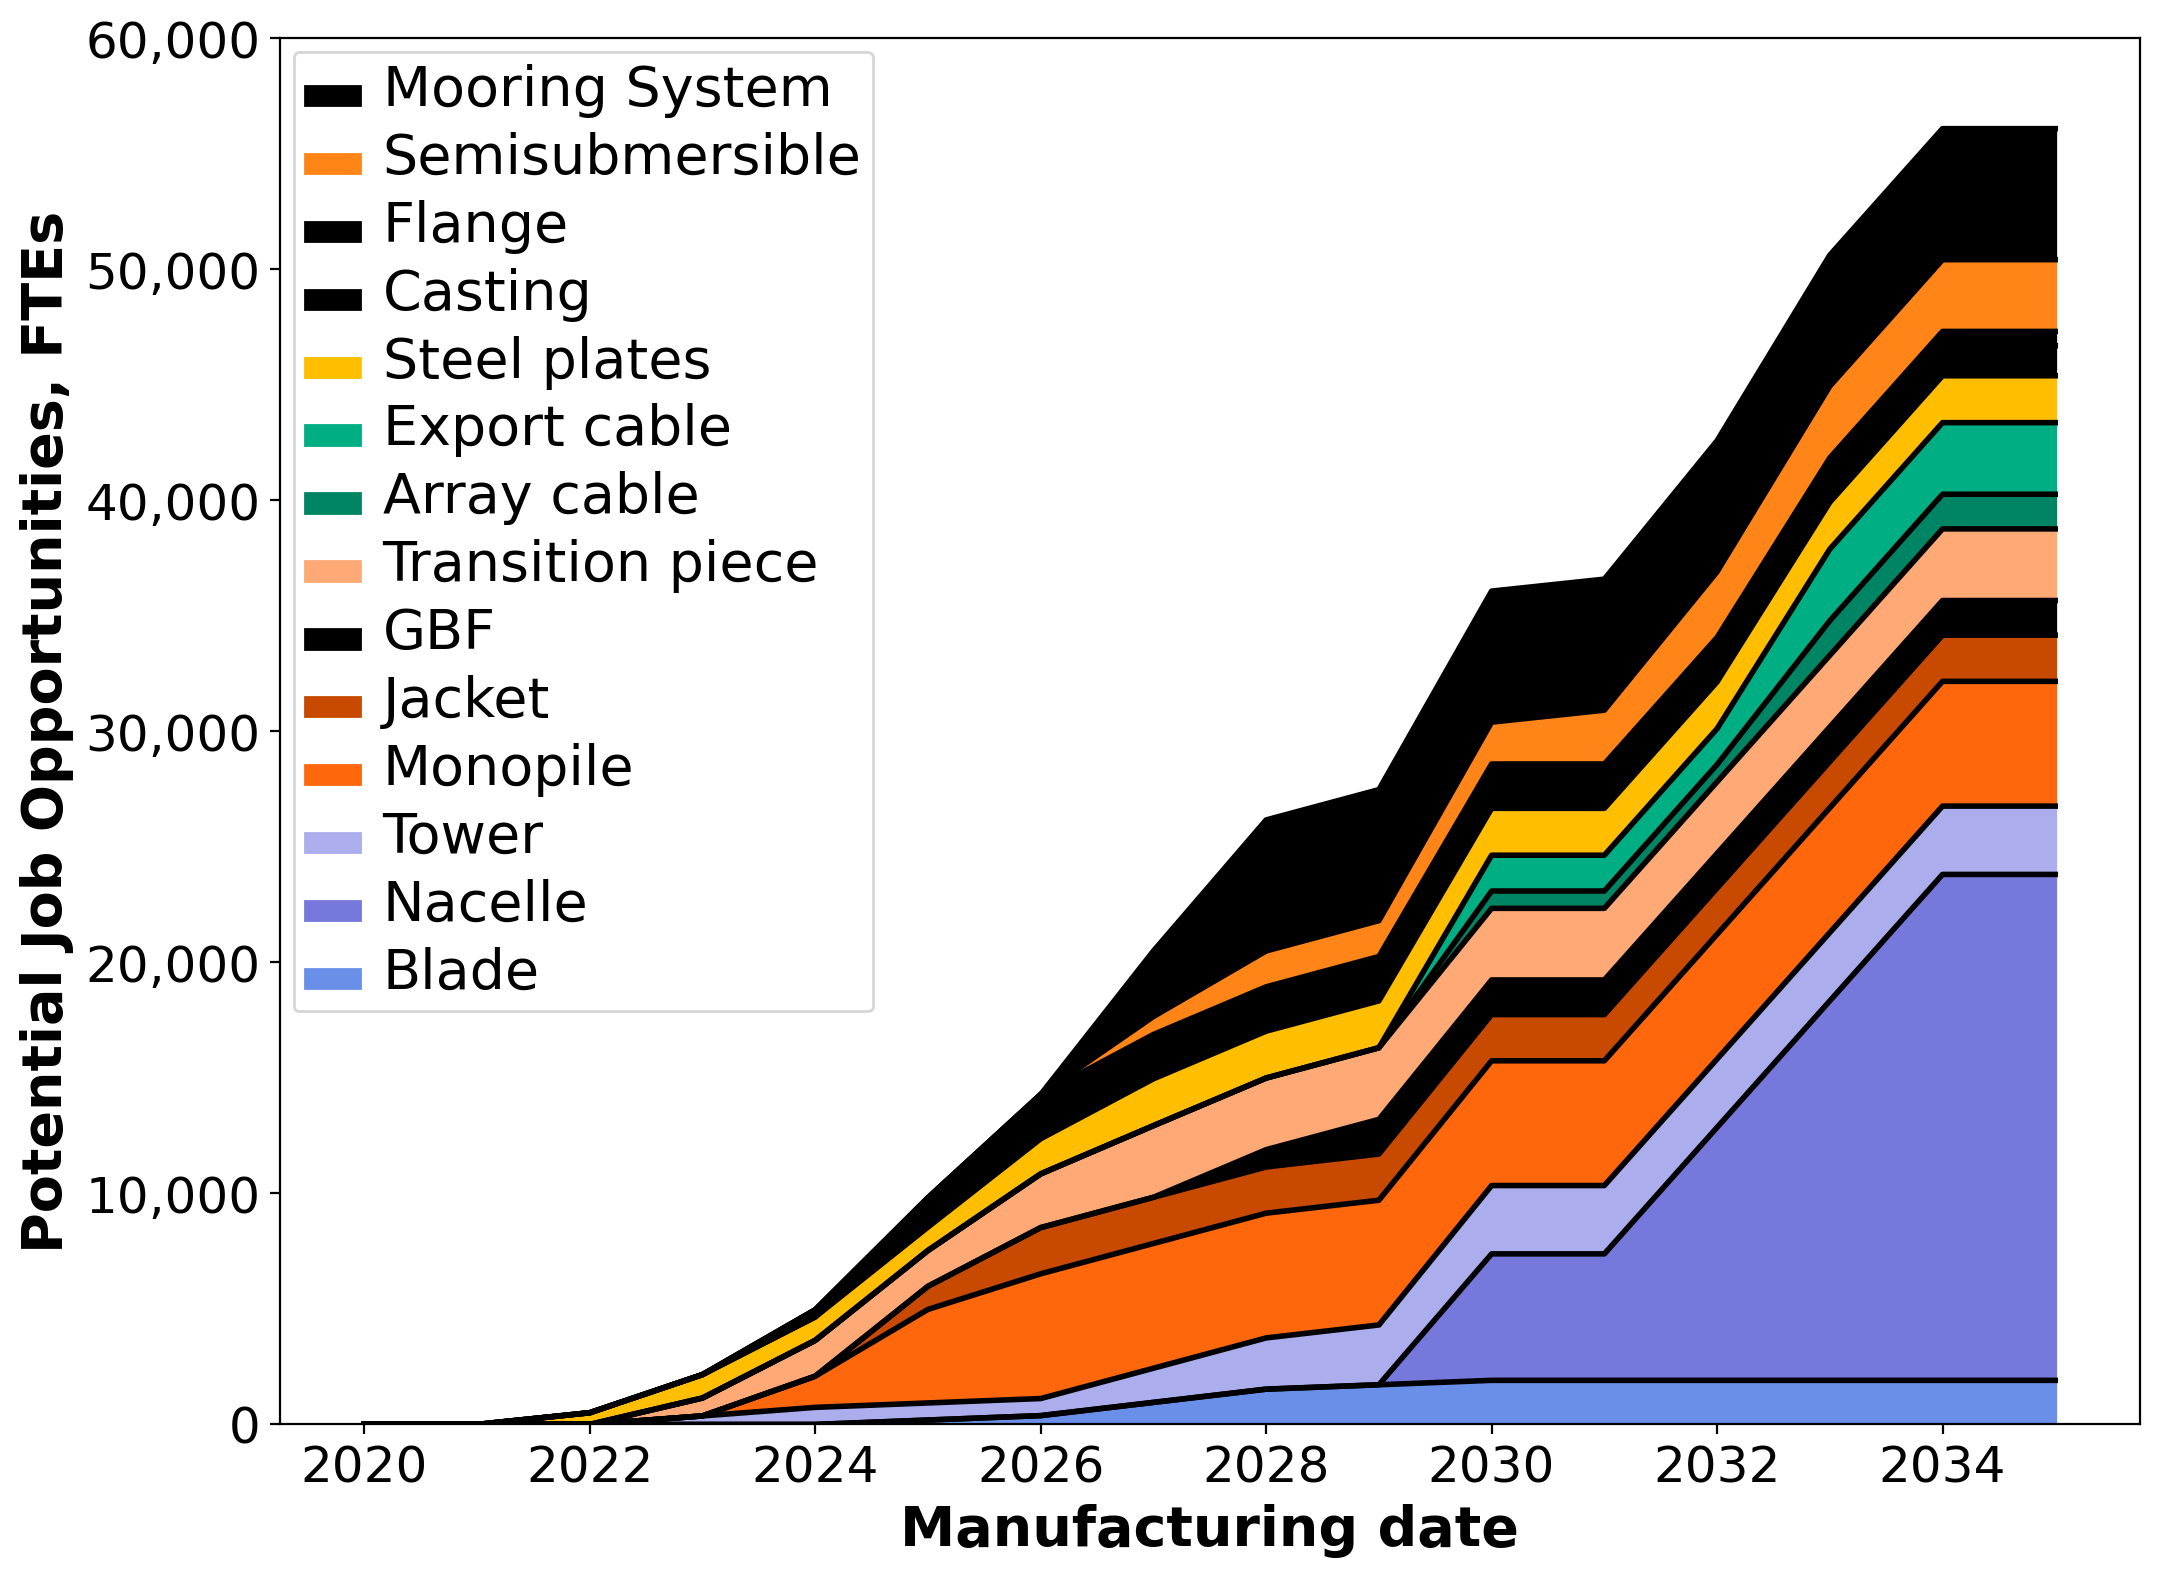
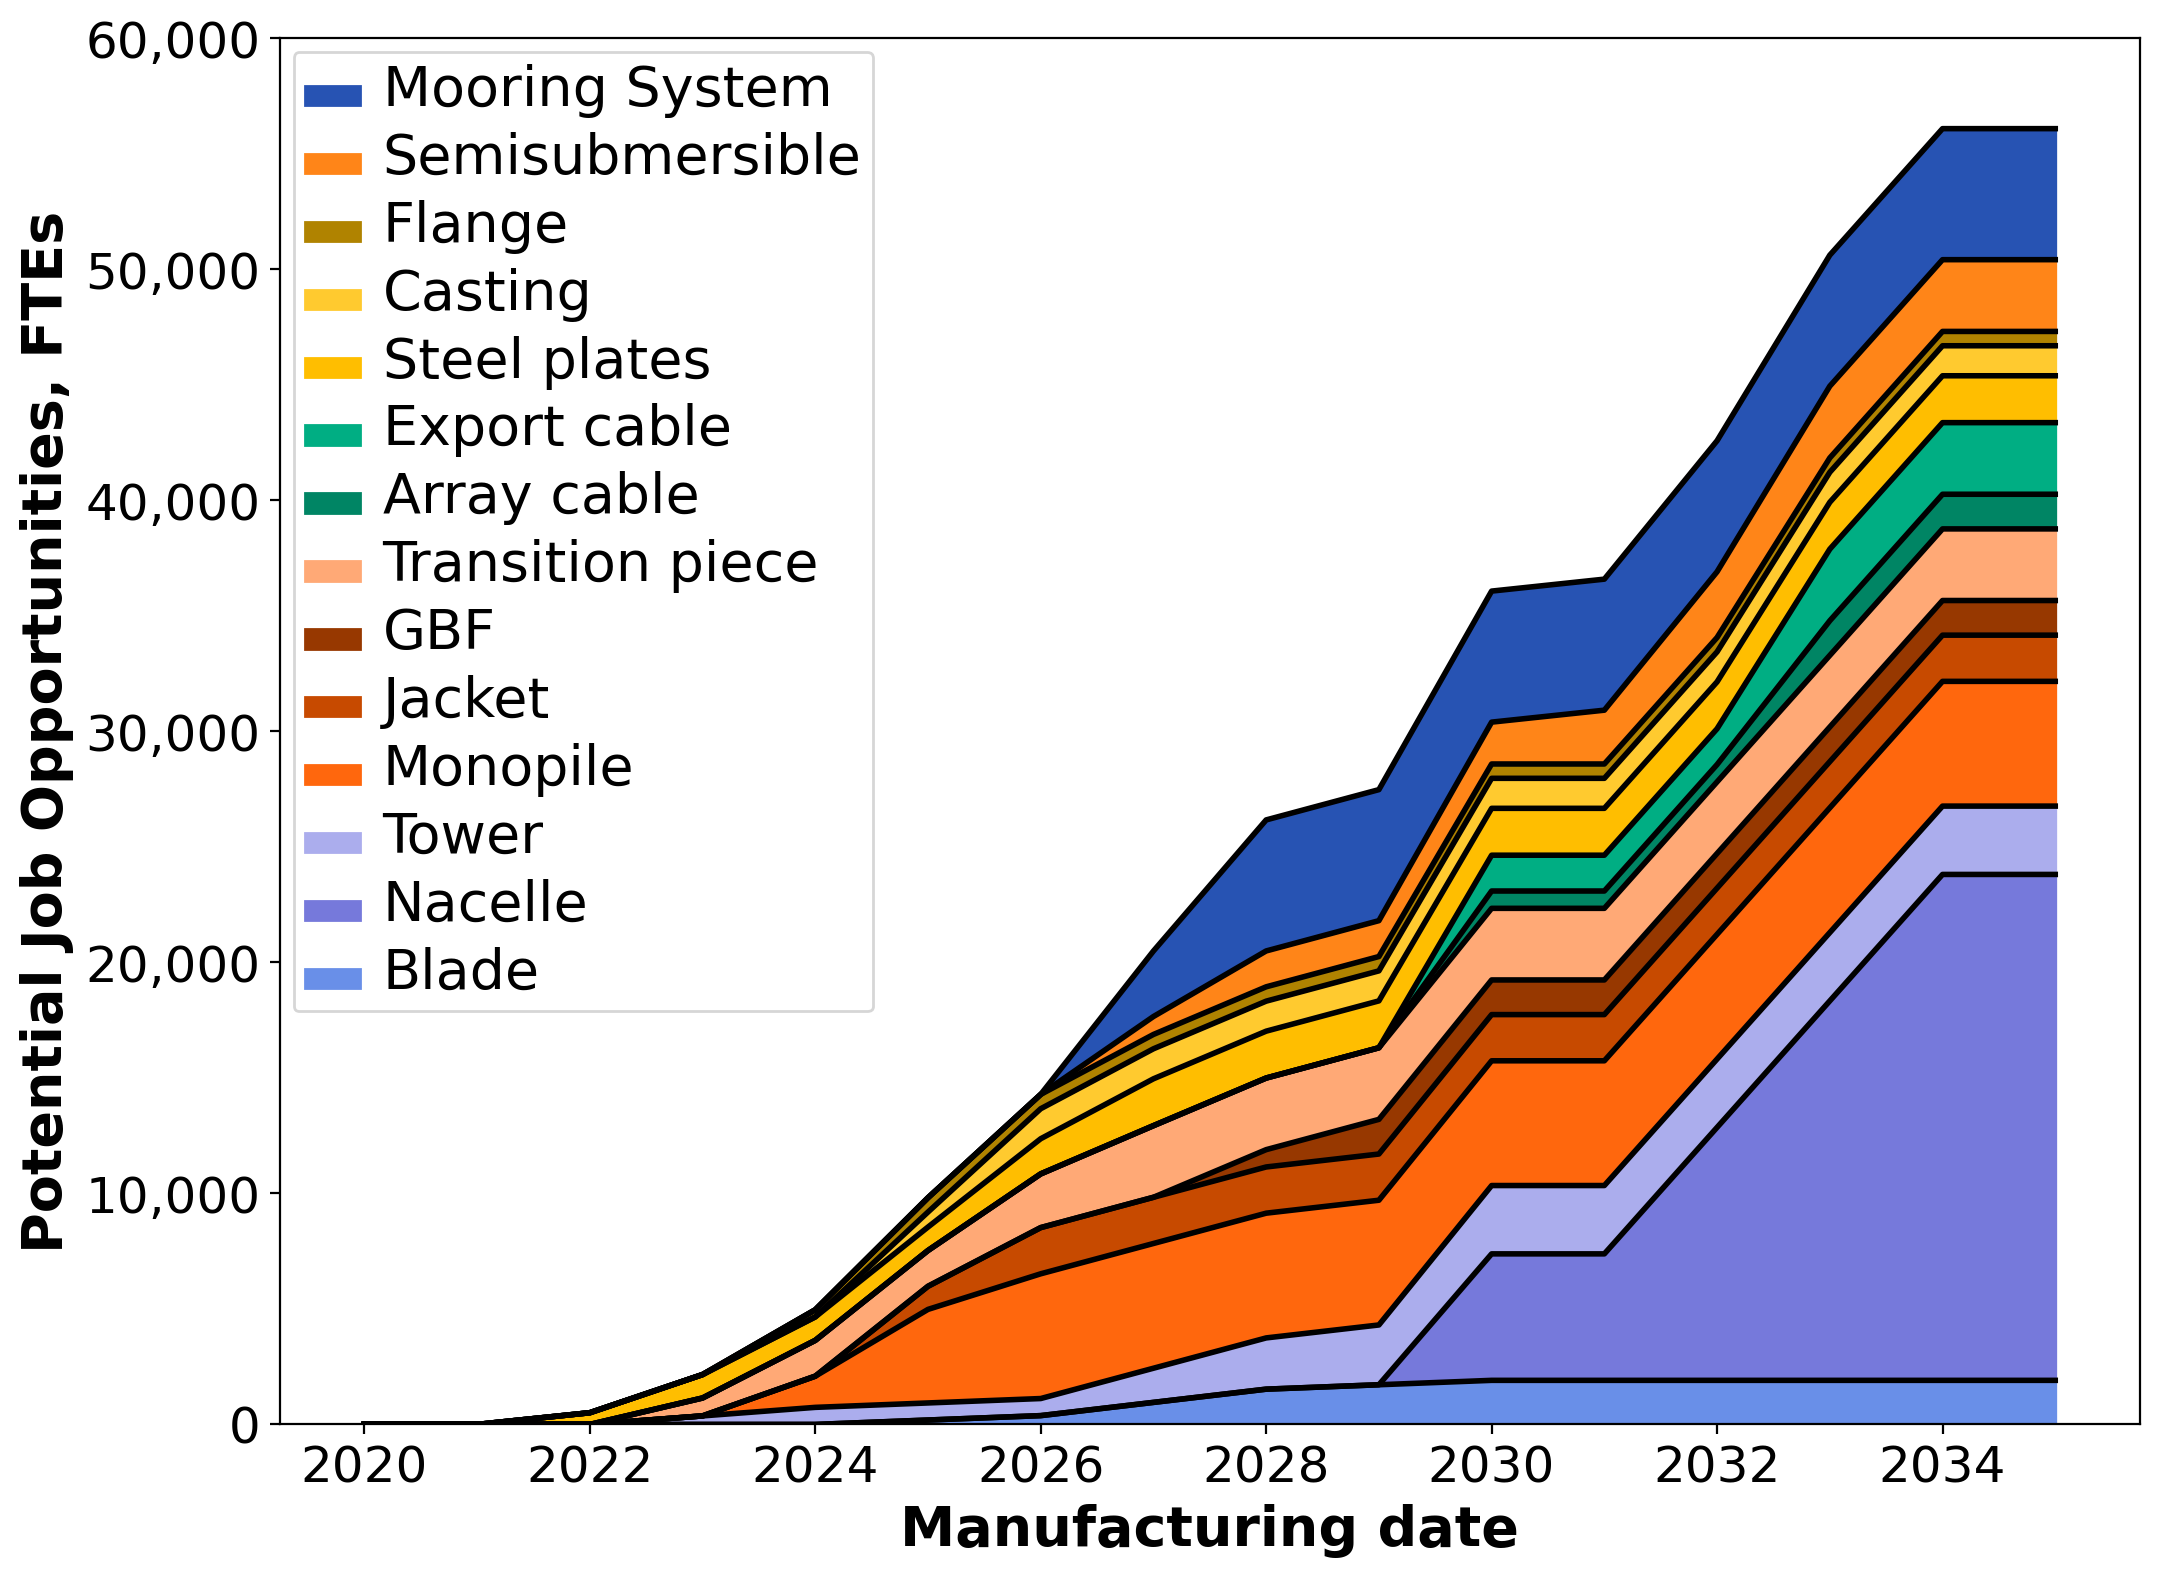
Updated state overlap bar plot

diff --git a/plot_routines.py b/plot_routines.py
@@ -239,7 +239,7 @@ def plot_cumulative(x, y1, y2, y3, y4, components, color_list, ylabel, fname=Non
     # Add vessels
     yVessels = yPorts + y4
     ax.fill_between(x, list(yPorts), list(yVessels), color=color_list['WTIV'], label='WTIVs and HLVs')
-    ax.plot(x, yVessels, 'k')
+    ax.plot(x, yVessels, 'w')
 
     total_inv = pd.DataFrame({'Year': x, 'Investment': yVessels})
     print('Cumulative supply chain investment is: ', total_inv)
@@ -525,11 +525,28 @@ def plot_overlap_bar(x, y1, y2, y3, color_list, kwargs, fname=None):
 
     fig, ax = initFigAxis(figx=30)
 
-    ax.bar(x, y1, width=kwargs['back_bar_width'], align='edge', zorder=kwargs['back_bar_zorder'], label=kwargs['legend'][0], edgecolor='k', color=color_list[kwargs['legend'][0]])
-    ax.bar(x, y2, width=kwargs['back_bar_width'], align='edge', zorder=kwargs['back_bar_zorder'], label=kwargs['legend'][1], edgecolor='k', color=color_list[kwargs['legend'][1]])
-    ax.bar(x, y3, width=kwargs['front_bar_width'], alpha=0.75, zorder=kwargs['front_bar_zorder'], label=kwargs['legend'][2], edgecolor='k', color=color_list[kwargs['legend'][2]])
+    # x =  np.arange(len(x_name))
 
-    ax.set_xticklabels(x, rotation=45)
+    y_avg = [(i+j+k)/3 for i,j,k in zip(y1, y2, y3)]
+    y_avg_sort = [y_avg[i] for i in np.argsort(y_avg)]
+    x_sort = [x[i] for i in np.argsort(y_avg)]
+    # x1_sort = [x[i] - kwargs['bar_width'] for i in np.argsort(y_avg)]
+    # x2_sort = [x[i] + kwargs['bar_width'] for i in np.argsort(y_avg)]
+    # x_name_sort = [x_name[i] for i in np.argsort(y_avg)]
+    y1_sort = [y1[i] for i in np.argsort(y_avg)]
+    y2_sort = [y2[i] for i in np.argsort(y_avg)]
+    y3_sort = [y3[i] for i in np.argsort(y_avg)]
+
+    x_tick = np.arange(len(x_sort))
+
+    ax.bar(x_tick - kwargs['bar_width'], y1_sort[::-1], width=kwargs['bar_width'],  label=kwargs['legend'][0], edgecolor='k', color=color_list[kwargs['legend'][0]])
+    ax.bar(x_tick, y2_sort[::-1], width=kwargs['bar_width'], label=kwargs['legend'][1], edgecolor='k', color=color_list[kwargs['legend'][1]])
+    ax.bar(x_tick + kwargs['bar_width'], y3_sort[::-1], kwargs['bar_width'],   label=kwargs['legend'][2], edgecolor='k', color=color_list[kwargs['legend'][2]])
+
+    ax.plot(x_sort[::-1], y_avg_sort[::-1],'k', label='Average score')
+
+    ax.set_xticks(x_tick)
+    ax.set_xticklabels(x_sort[::-1], rotation=45)
     ax.legend()
     frame = plt.gca()
     frame.axes.get_yaxis().set_visible(False)

diff --git a/additional_plots.py b/additional_plots.py
@@ -5,7 +5,7 @@ from helpers import color_list
 
 
 dir_ind_jobs = False
-workforce_plots = False
+workforce_plots = True
 port_vessel_plots = True
 
 if __name__ == '__main__':
@@ -88,8 +88,7 @@ if __name__ == '__main__':
                 y2 = _df.loc[:, label[1]].values
                 y3 = _df.loc[:, label[2]].values
 
-                kwargs = {'back_bar_width': 0.33,
-                            'front_bar_width': 0.5,
+                kwargs = {'bar_width': 0.2,
                             'back_bar_zorder': 0,
                             'front_bar_zorder': 1,
                             'legend': label

diff --git a/helpers.py b/helpers.py
@@ -101,9 +101,9 @@ color_list = {
     'Direct jobs': '#FF8500',
     'Suppliers (Indirect jobs, 100% domestic content)': '#055B7C',
     'Indirect jobs': '#055B7C',
-    'Similar industries capacity': '#70AD47',
-    'Proximity to conceptual facilities': '#FFC000',
-    'Offshore specific capability ': '#5B9BD5',
+    'Similar industries capacity': '#933C06',
+    'Proximity to conceptual facilities': '#D1D5D8',
+    'Offshore specific capability ': '#F7A11A',
     #
     'Announced_hatch': '\\\\',
     'Scenario_hatch': '...',
